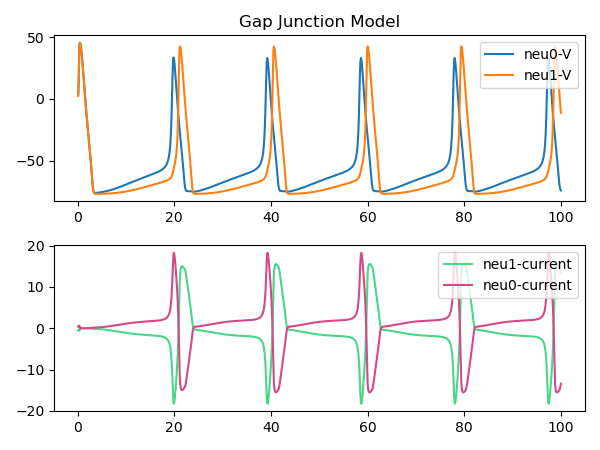
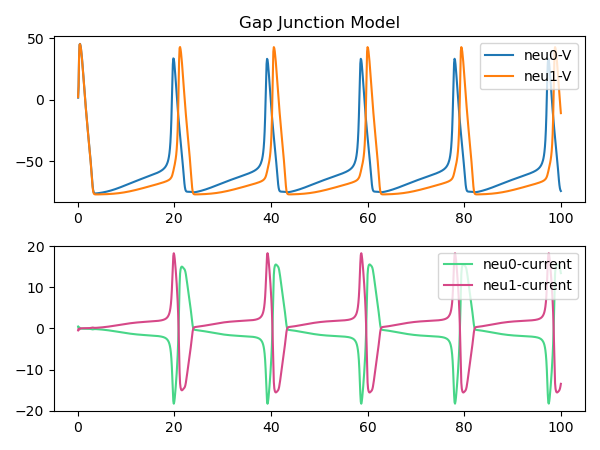
modify the gap junction model

diff --git a/synapes_models/run_synapse.py b/synapes_models/run_synapse.py
@@ -112,14 +112,13 @@ def run_syn_GABAb(syn_model, title, run_duration=100., Iext=0., **kwargs):
 def run_syn_GJ(syn_model, title, run_duration=100., Iext=7.5, **kwargs):
 	# 定义神经元组和突触连接，并构建神经网络
 	neu = bp.dyn.HH(2)
-	syn = syn_model(neu, neu, conn=bp.connect.All2All(include_self=False), **kwargs)
+	syn = syn_model(neu, neu, conn=bp.connect.All2All(include_self=False), **kwargs)  # include_self=False: 自己和自己没有连接
 	net = bp.dyn.Network(syn=syn, neu=neu)
 
 	# 运行模拟
 	runner = bp.dyn.DSRunner(net,
 	                         inputs=[('neu.input', bm.array([Iext, 0.]))],
-	                         monitors=['neu.V', 'syn.current'],
-	                         jit=True)
+	                         monitors=['neu.V', 'syn.current'])
 	runner.run(run_duration)
 
 	# 可视化
@@ -131,8 +130,10 @@ def run_syn_GJ(syn_model, title, run_duration=100., Iext=7.5, **kwargs):
 	plt.title(title)
 
 	plt.sca(gs[1])
-	plt.plot(runner.mon.ts, runner.mon['syn.current'][:, 0], label='neu1-current', color=u'#48d688')
-	plt.plot(runner.mon.ts, runner.mon['syn.current'][:, 1], label='neu0-current', color=u'#d64888')
+	plt.plot(runner.mon.ts, runner.mon['syn.current'][:, 0],
+					 label='neu0-current', color=u'#48d688')
+	plt.plot(runner.mon.ts, runner.mon['syn.current'][:, 1],
+					 label='neu1-current', color=u'#d64888')
 	plt.legend(loc='upper right')
 
 	plt.tight_layout()

diff --git a/synapes_models/GapJunction.py b/synapes_models/GapJunction.py
@@ -14,20 +14,23 @@ class GapJunction(bp.dyn.TwoEndConn):
 		# 初始化参数
 		self.g = g
 
-		# 获取每个连接的突触前神经元pre和突触后神经元post
+		# 获取每个连接的突触前神经元pre_ids和突触后神经元post_ids
 		self.pre_ids, self.post_ids = self.conn.require('pre_ids', 'post_ids')
 
 		# 初始化变量
 		self.current = bm.Variable(bm.zeros(self.post.num))
 
 	def update(self, _t, _dt):
-		# 计算突触后电流（从外向内为正方向）
+		# 计算突触后电流（）
 		inputs = self.g * (self.pre.V[self.pre_ids.value] - self.post.V[self.post_ids.value])
+
+		# 从synapse到post的计算：post id相同电流加到一起
 		self.current.value = bm.syn2post(inputs, self.post_ids, self.post.num)
 		self.post.input += self.current
 
 
 run_syn_GJ(GapJunction, title='Gap Junction Model')
+run_syn_GJ(GapJunction, Iext=5., title='Gap Junction Model')
 
 
 # 将相同id的值加和到一起
